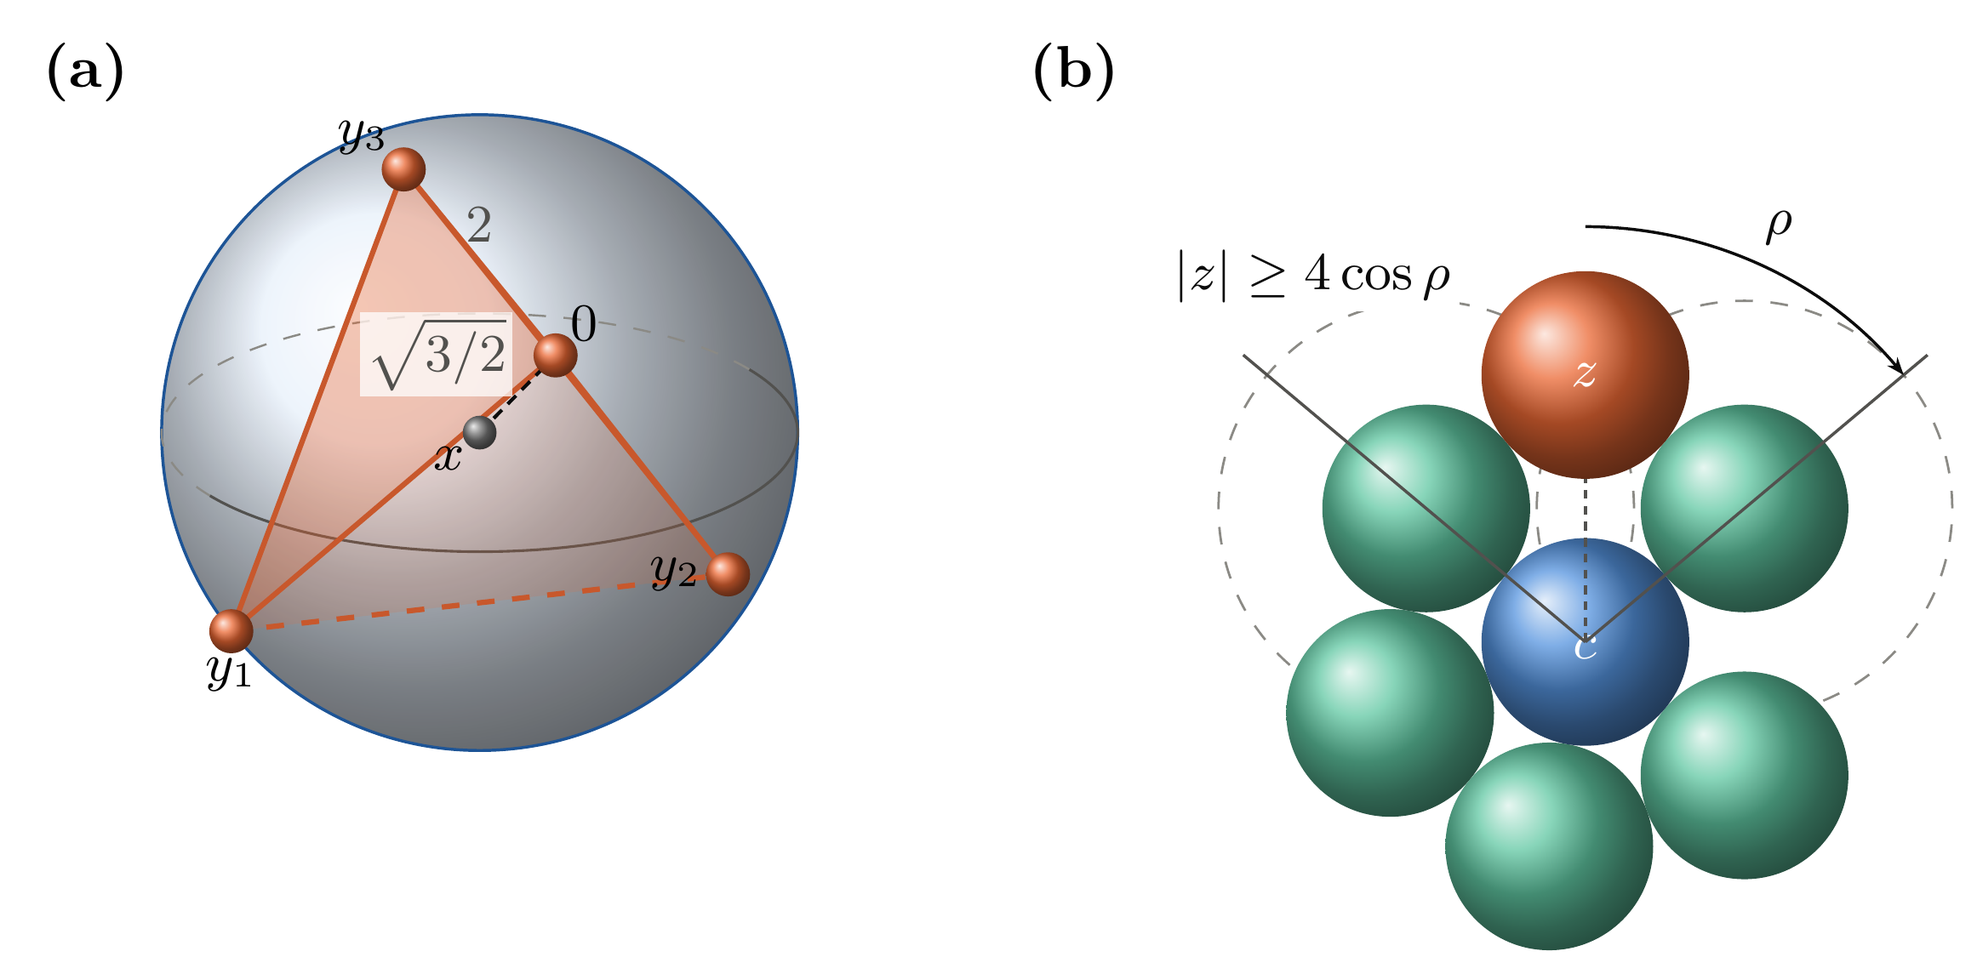
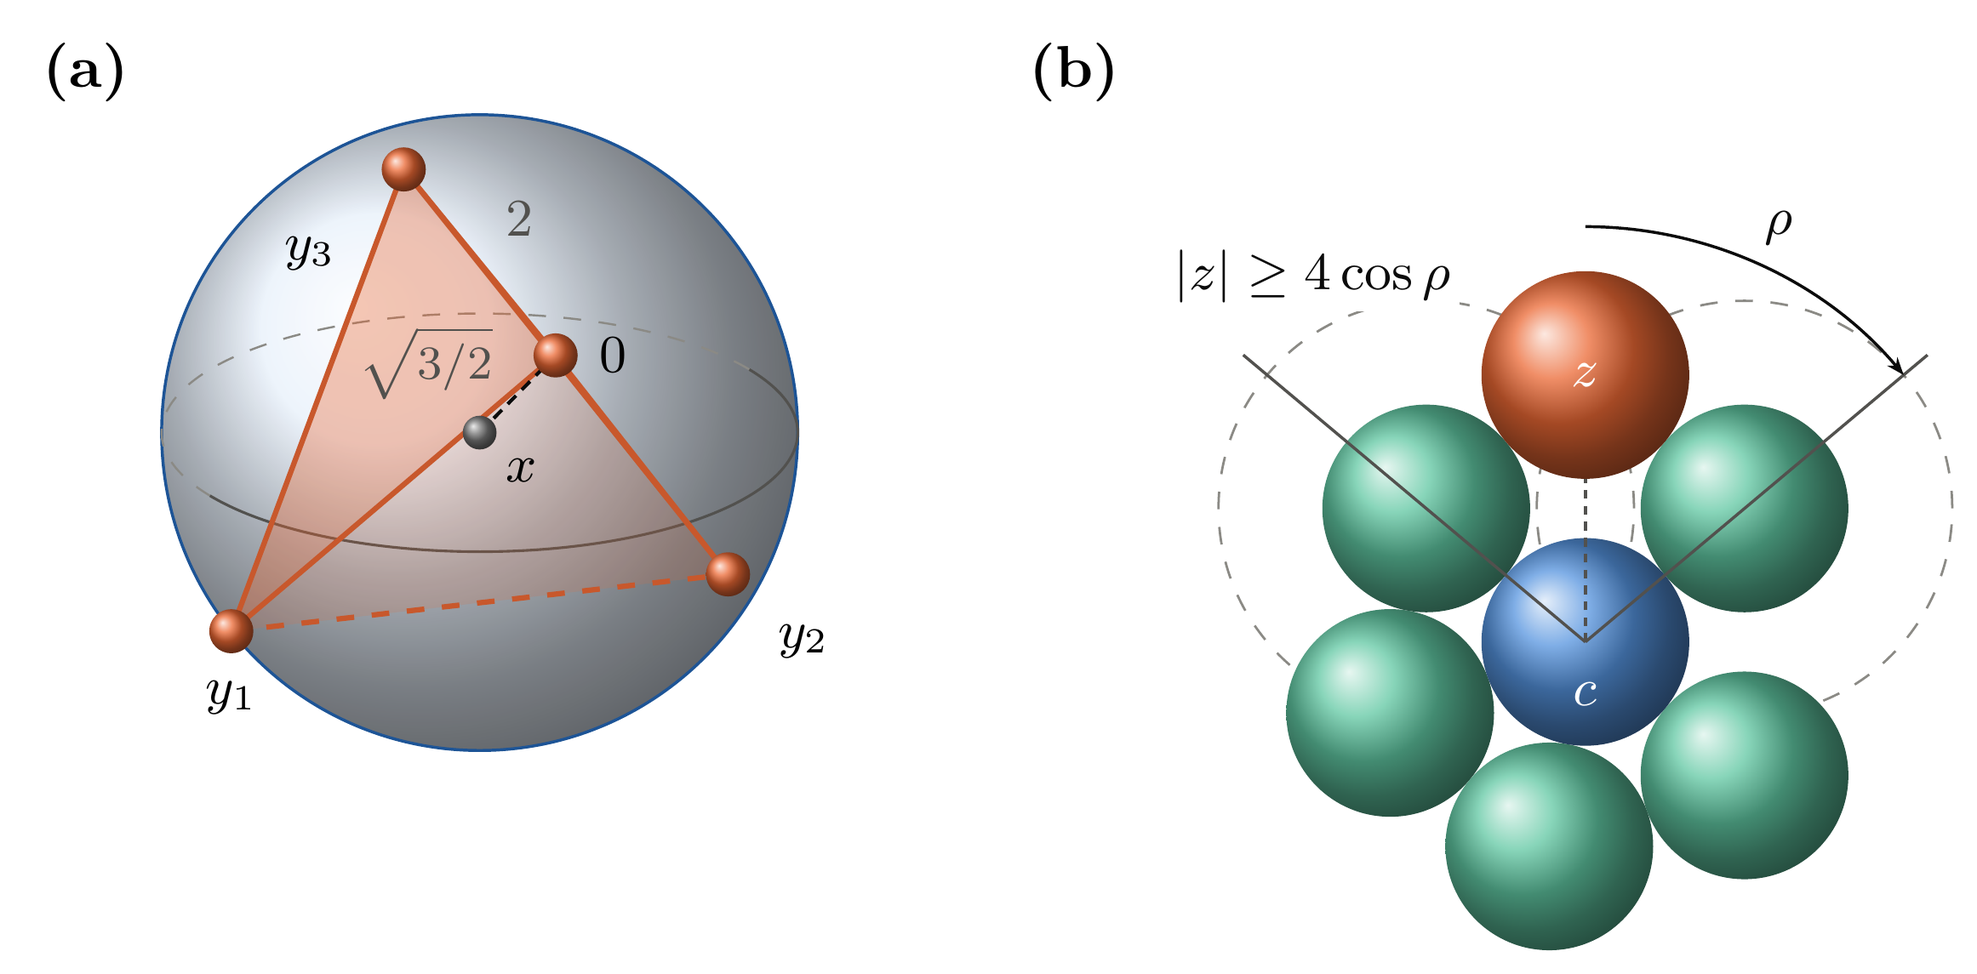
TikZ figures: a collision test for all six, and the four older ones redrawn to pass it
tikz_overlap_check.py compiles a figure with every node aliased (pgfplots
tick labels included), fails it if two nodes overlap, and renders it with
the text hidden to fail any label under which a line, curve, marker or
outline passes (a fill or smooth shading may lie under a label).  Rotated
nodes are measured by all four corners.  The closure, labelled, stop and
epsilon_0 figures had labels touching balls, edges, the zoom frame, a
translucent legend and a grid line; they are moved or backed and the PNGs
re-rendered at 500 dpi.  All six figures pass in both modes.

Claude-Session: https://claude.ai/code/session_01Xmfdkimf2Rbfy8vsWthaq4

diff --git a/paper/figures_new/tikz_overlap_check.py b/paper/figures_new/tikz_overlap_check.py
@@ -9,11 +9,16 @@ and of the whole picture to the log; with \\def\\nolabels{} it draws everything
 except the free text.  The test compiles the figure three ways and fails if
 
   1. two named nodes overlap (boxes and labels alike), or
-  2. under any free label the drawing without labels is not flat: a curve, a
-     line, a marker or the edge of a box passing under the text.  A label may
-     sit on a uniform fill, such as a shaded band, and on nothing else.
+  2. under any free label the drawing without labels has an edge: a curve, a
+     line, a marker or the outline of a shape passing under the text.  A label
+     may sit on a fill or a smooth shading, and on nothing else.
 
-Usage: python3 tikz_overlap_check.py FIGURE.tex [PAD_PT]
+In the automatic mode (\\autocheck in the figure, or --auto here) every node is
+checked: a node that contains another is a frame and is left out; both tests
+look at each node 1.5pt in from its border (inside the default inner sep of
+3.33pt), the second a further 0.6pt in, with only the text of the nodes hidden.
+
+Usage: python3 tikz_overlap_check.py [--auto] FIGURE.tex [PAD_PT]
 Exit status 0 when both tests pass.
 """
 import os
@@ -26,8 +31,15 @@ import numpy as np
 from PIL import Image
 
 DPI = 200
-tex = os.path.abspath(sys.argv[1])
-pad = float(sys.argv[2]) if len(sys.argv) > 2 else 1.0
+EDGE = 12      # grey levels between neighbouring pixels that make an edge
+show = None
+if '--show' in sys.argv:
+    k = sys.argv.index('--show'); show = sys.argv[k + 1]; del sys.argv[k:k + 2]
+args = [a for a in sys.argv[1:] if a != '--auto']
+force = '--auto' in sys.argv
+tex = os.path.abspath(args[0])
+pad = float(args[1]) if len(args) > 1 else 1.0
+pre = '\\def\\forceauto{}' if force else ''
 base = os.path.splitext(os.path.basename(tex))[0]
 src = open(tex).read()
 
@@ -43,11 +55,11 @@ def build(prefix, work):
 
 
 with tempfile.TemporaryDirectory() as work:
-    job = build('\\def\\checkbboxes{}', work)
+    job = build(pre + '\\def\\checkbboxes{}', work)
     log = open(job + '.log', errors='replace').read().replace('\n', '')
     nodes = {}
     num = r' ([-\d.]+)pt'
-    for m in re.findall(r'BBOX (box|label) (\S+)' + num * 8, log):
+    for m in re.findall(r'BBOX (box|label|auto) (\S+)' + num * 8, log):
         kind, name, c = m[0], m[1], [float(v) for v in m[2:]]
         xs, ys = c[0::2], c[1::2]
         # the extent over all four corners: a rotated node has its anchors rotated
@@ -56,6 +68,27 @@ with tempfile.TemporaryDirectory() as work:
     border = float(re.search(r'BORDER ([\d.]+)pt', log).group(1))
     px0, py0, px1, py1 = map(float, pic.groups())
     fails = []
+    auto = any(k == 'auto' for k, *_ in nodes.values())
+    if auto:
+        # leave out points (no extent), empty nodes (twice the default inner sep,
+        # 6.67pt square, where any node with text is larger) and frames (a node
+        # that contains another)
+        pts = {n for n, (k, x1, y1, x2, y2) in nodes.items()
+               if x2 - x1 < 0.5 or y2 - y1 < 0.5 or (x2 - x1 < 7.5 and y2 - y1 < 7.5)}
+        for n in pts:
+            del nodes[n]
+        frames = set()
+        for a, (_, ax1, ay1, ax2, ay2) in nodes.items():
+            for b, (_, bx1, by1, bx2, by2) in nodes.items():
+                if a != b and ax1 <= bx1 + 0.01 and ay1 <= by1 + 0.01 and ax2 >= bx2 - 0.01 and ay2 >= by2 - 0.01:
+                    frames.add(a)
+        for n in frames:
+            del nodes[n]
+        # nodes carry their inner sep (0.33 em unless set); compare them 1.5pt in
+        # from their borders, which still checks a margin of about 1.8pt around
+        # text with the default
+        for n, (k, x1, y1, x2, y2) in list(nodes.items()):
+            nodes[n] = (k, x1 + 1.5, y1 + 1.5, x2 - 1.5, y2 - 1.5)
     names = sorted(nodes)
     for a in range(len(names)):
         for b in range(a + 1, len(names)):
@@ -63,27 +96,52 @@ with tempfile.TemporaryDirectory() as work:
             _, bx1, by1, bx2, by2 = nodes[names[b]]
             if min(ax2, bx2) - max(ax1, bx1) > -pad and min(ay2, by2) - max(ay1, by1) > -pad:
                 fails.append('nodes %s and %s overlap' % (names[a], names[b]))
-    job2 = build('\\def\\nolabels{}', work)
+    job2 = build(pre + '\\def\\nolabels{}', work)
     subprocess.run(['pdftoppm', '-r', str(DPI), '-png', '-singlefile', job2 + '.pdf', job2], check=True)
     img = np.asarray(Image.open(job2 + '.png').convert('L'), dtype=float)
     H, Wd = img.shape
     s = DPI / 72.27
+    bad = []
     for name, (kind, x1, y1, x2, y2) in nodes.items():
-        if kind != 'label':
+        if kind == 'box':
             continue
+        if kind == 'auto':
+            # a further 0.6pt in: rounded corners of radius 2pt reach that far inside
+            x1, y1, x2, y2 = x1 + 0.6, y1 + 0.6, x2 - 0.6, y2 - 0.6
         c1 = int((x1 - px0 + border) * s) + 1; c2 = int((x2 - px0 + border) * s) - 1
         r1 = int((py1 - y2 + border) * s) + 1; r2 = int((py1 - y1 + border) * s) - 1
         patch = img[max(r1, 0):min(r2, H), max(c1, 0):min(c2, Wd)]
         if patch.size == 0:
             fails.append('label %s has an empty pixel box' % name)
             continue
-        # background, or one flat fill (a shaded band): nothing drawn varies under the label
-        if patch.max() - patch.min() > 2:
-            dark = int(np.sum(np.abs(patch - np.median(patch)) > 2))
-            fails.append('label %s lies over %d drawn pixels' % (name, dark))
-    print('%s: %d boxes, %d labels checked' % (base, sum(k == 'box' for k, *_ in nodes.values()),
-                                               sum(k == 'label' for k, *_ in nodes.values())))
+        # background, a fill, or a smooth shading may lie under a label; an edge may
+        # not: a line, a curve, a marker or the outline of a shape changes the grey
+        # level between neighbouring pixels by far more than any shading does
+        jump = np.zeros_like(patch)
+        if patch.shape[0] > 1:
+            jump[1:, :] = np.maximum(jump[1:, :], np.abs(np.diff(patch, axis=0)))
+        if patch.shape[1] > 1:
+            jump[:, 1:] = np.maximum(jump[:, 1:], np.abs(np.diff(patch, axis=1)))
+        edges = int(np.sum(jump > EDGE))
+        if edges:
+            fails.append('label %s lies over %d edge pixels' % (name, edges))
+            bad.append((name, c1, r1, c2, r2))
+    if auto:
+        print('%s: %d nodes checked automatically (%d frames and %d points or empty nodes left out)'
+              % (base, len(nodes), len(frames), len(pts)))
+    else:
+        print('%s: %d boxes, %d labels checked' % (base, sum(k == 'box' for k, *_ in nodes.values()),
+                                                   sum(k == 'label' for k, *_ in nodes.values())))
     for f in fails:
         print('  FAIL: ' + f)
     print('  PASS' if not fails else '  %d failures' % len(fails))
+    if show:
+        # the figure as drawn, with the box of every label that failed in red
+        from PIL import ImageDraw
+        job3 = build(pre, work)
+        subprocess.run(['pdftoppm', '-r', str(DPI), '-png', '-singlefile', job3 + '.pdf', job3], check=True)
+        im = Image.open(job3 + '.png').convert('RGB'); dr = ImageDraw.Draw(im)
+        for name, c1, r1, c2, r2 in bad:
+            dr.rectangle([c1, r1, c2, r2], outline=(255, 0, 0)); dr.text((c1, max(r1 - 10, 0)), name, fill=(255, 0, 0))
+        im.save(show)
     sys.exit(1 if fails else 0)

diff --git a/paper/figures_new/tikzcheck.tex b/paper/figures_new/tikzcheck.tex
@@ -1,20 +1,40 @@
 % tikzcheck.tex -- the hooks of tikz_overlap_check.py, input by the TikZ figures.
-% \figboxes and \figlabels list the named nodes; \checkfigure, at the end of the
-% picture, writes their four corners (so that rotated nodes are measured by their
-% true extent) and those of the picture to the log when
-% \checkbboxes is defined.  With \nolabels defined, nodes in the style lbl are
-% drawn invisibly, so that the test can look at what lies under them.
+% Two ways to name what is checked.
+%  - Explicit: \figboxes and \figlabels list named nodes; with \nolabels defined,
+%    nodes in the style lbl are drawn invisibly.
+%  - Automatic: \autocheck in the preamble gives every node of the picture,
+%    pgfplots tick labels included, an alias chk<n>; with \nolabels defined, the
+%    text of every node is drawn invisibly and its shape is kept.
+% \checkfigure, at the end of the picture, writes the four corners of each
+% checked node (so that rotated nodes are measured by their true extent) and
+% those of the picture to the log when \checkbboxes is defined.
 \tikzset{lbl/.style={}}
 \ifdefined\nolabels\tikzset{lbl/.append style={opacity=0}}\fi
+\newcount\chknodes
+\newcommand\autocheck{%
+  \def\chkauto{}%
+  \tikzset{every node/.append style={/utils/exec={\global\advance\chknodes by 1\relax},
+                                      alias=chk\the\chknodes}}%
+  \ifdefined\nolabels\tikzset{every node/.append style={text opacity=0}}\fi}
+\makeatletter
+% a node counted but never kept (pgfplots typesets some nodes once to measure them)
+% has no shape, and is skipped
+\newcommand\chkifnode[2]{\pgfutil@ifundefined{pgf@sh@ns@#1}{}{#2}}
+\makeatother
+\newcommand\chkout[2]{% kind, node
+  \path let \p1=(#2.south west), \p2=(#2.north east), \p3=(#2.north west), \p4=(#2.south east)
+    in \pgfextra{\typeout{BBOX #1 #2\space\x1\space\y1\space\x2\space\y2\space\x3\space\y3\space\x4\space\y4}};}
 \newcommand\checkfigure{%
   \ifdefined\checkbboxes
     \path let \p1=(current bounding box.south west), \p2=(current bounding box.north east)
       in \pgfextra{\typeout{PICBB \x1\space\y1\space\x2\space\y2}};
     \typeout{BORDER 4.0pt}%
-    \foreach \nm in \figboxes {\path let \p1=(\nm.south west), \p2=(\nm.north east),
-        \p3=(\nm.north west), \p4=(\nm.south east)
-      in \pgfextra{\typeout{BBOX box \nm\space\x1\space\y1\space\x2\space\y2\space\x3\space\y3\space\x4\space\y4}};}
-    \foreach \nm in \figlabels {\path let \p1=(\nm.south west), \p2=(\nm.north east),
-        \p3=(\nm.north west), \p4=(\nm.south east)
-      in \pgfextra{\typeout{BBOX label \nm\space\x1\space\y1\space\x2\space\y2\space\x3\space\y3\space\x4\space\y4}};}
+    \ifdefined\chkauto
+      \edef\chklast{\the\chknodes}%
+      \foreach \nm in {1,...,\chklast} {\chkifnode{chk\nm}{\chkout{auto}{chk\nm}}}%
+    \else
+      \foreach \nm in \figboxes {\chkout{box}{\nm}}%
+      \foreach \nm in \figlabels {\chkout{label}{\nm}}%
+    \fi
   \fi}
+\ifdefined\forceauto\autocheck\fi

diff --git a/paper/figures_new/tikz_labelled.tex b/paper/figures_new/tikz_labelled.tex
@@ -6,6 +6,7 @@
 %       fr = (1 - q)^2 (2 + q)/4 of the section.  Orthographic, q = 0.35.
 %   (b) The three ranges of the largest inner product t of three directions in the
 %       proof, with what settles each; not to scale.
+% Test:   python3 tikz_overlap_check.py tikz_labelled.tex
 % Build:  pdflatex tikz_labelled.tex && pdftoppm -r 500 -png -singlefile tikz_labelled.pdf ../figures/fig_tikz_labelled
 \documentclass[border=4pt]{standalone}
 \usepackage{tikz}
@@ -21,6 +22,8 @@
 \definecolor{cink2}{HTML}{52514E}
 \definecolor{cink3}{HTML}{8B8A85}
 \definecolor{cpanel}{HTML}{F4F3EF}
+\input{tikzcheck}
+\autocheck
 \begin{document}
 \begin{tikzpicture}[font=\small]
 %% ------------------------------------------------------------------ (a)
@@ -51,15 +54,15 @@
   \draw[cink2, line width=0.45pt] (-1,0) arc[start angle=180, end angle=360, x radius=1, y radius={sin(\e)}];
   % centre, radius rho, distance q rho, and the normal of the second hyperplane
   \fill[cink] (0,0) circle (0.022);
-  \draw[cink, line width=0.5pt] (0,0) -- (-0.94,-0.342) node[pos=0.55, below=-1pt] {$\rho$};
+  \draw[cink, line width=0.5pt] (0,0) -- (-0.94,-0.342) node[pos=1, left=3pt] {$\rho$};
   \draw[cink, line width=0.6pt, |-|, >=Bar] (0.02,0) -- (0.02,\yc);
-  \node[right=0pt, cink] at (0.02,\yc/2) {$q\rho$};
+  \draw[cink3, line width=0.35pt] (0.05,\yc/2) -- (1.12,-0.14);
+  \node[anchor=west, inner sep=1.5pt, cink] at (1.12,-0.14) {$q\rho$};
   \draw[-{Stealth[length=4pt]}, cink2, line width=0.6pt] (1.05,\yc+0.02) -- (1.05,\yc+0.62);
   \node[right=1pt, cink2, align=left, font=\footnotesize] at (1.05,\yc+0.5) {towards the\\second centre};
   \node[corange!85!black] at (0,0.78) {$\mathrm{fr}$};
   \node[cink2, font=\footnotesize, align=center] at (0,-1.28) {section of $B(\sqrt{3/2})$ at height $\tau$,\\ a ball of radius $\rho=(\tfrac32-\tau^2)^{1/2}$};
-  \node[caqua!60!black, font=\footnotesize, anchor=east] at (-1.47,\yc-0.2) {hyperplane of the};
-  \node[caqua!60!black, font=\footnotesize, anchor=east] at (-1.47,\yc-0.43) {second centre};
+  \node[caqua!60!black, font=\footnotesize, anchor=north east, align=right] at (-1.47,\yc-0.08) {hyperplane of the\\second centre};
 \end{scope}
 \node[font=\bfseries] at (-3.85,3.25) {(a)};
 \node[font=\footnotesize, cink] at (0,2.05) {$\mathrm{fr}=\tfrac14(1-q)^2(2+q)$};
@@ -95,5 +98,6 @@
   \node[cink2, font=\footnotesize, anchor=west] at (0,-1.05) {not to scale};
 \end{scope}
 \node[font=\bfseries] at (4.0,3.25) {(b)};
+\checkfigure
 \end{tikzpicture}
 \end{document}

diff --git a/paper/figures_new/tikz_closure.tex b/paper/figures_new/tikz_closure.tex
@@ -9,6 +9,7 @@
 %       angular radius of the hole (here rho = 50 degrees, so |z| >= 2.571).
 %       The dashed circles of radius 2 about the contacts are the regions no
 %       other centre may enter.  To scale.
+% Test:   python3 tikz_overlap_check.py tikz_closure.tex
 % Build:  pdflatex tikz_closure.tex && pdftoppm -r 500 -png -singlefile tikz_closure.pdf ../figures/fig_tikz_closure
 \documentclass[border=4pt]{standalone}
 \usepackage{tikz,tikz-3dplot}
@@ -22,6 +23,8 @@
 \definecolor{cink2}{HTML}{52514E}
 \definecolor{cink3}{HTML}{8B8A85}
 \definecolor{cpanel}{HTML}{F4F3EF}
+\input{tikzcheck}
+\autocheck
 \begin{document}
 \begin{tikzpicture}[font=\small]
 %% ------------------------------------------------------------------ (a)
@@ -56,14 +59,13 @@
       \shade[ball color=corange] (\p) circle (0.085);
     \shade[ball color=cink!55] (X) circle (0.065);
   \end{scope}
-  \node[above right=-1pt] at (P0) {$0$};
-  \node[below=1pt] at (P1) {$y_1$};
-  \node[left=1pt] at (P2) {$y_2$};
-  \node[above left=-1pt] at (P3) {$y_3$};
-  \node[below left=-1pt] at (X) {$x$};
-  \path (P0) -- (P3) node[midway, above=0pt, cink2] {$2$};
-  \path (X) -- (P0) node[pos=0.45, above left=0pt, fill=white, fill opacity=0.75,
-    text opacity=1, inner sep=1pt, text=cink2] {$\sqrt{3/2}$};
+  \node[right=4pt] at (P0) {$0$};
+  \node[below=5pt] at (P1) {$y_1$};
+  \node[below right=5pt] at (P2) {$y_2$};
+  \node[below left=8pt] at (P3) {$y_3$};
+  \node[below right=1pt] at (X) {$x$};
+  \path (P0) -- (P3) node[midway, above right=1pt, cink2] {$2$};
+  \path (X) -- (P0) node[pos=0.3, above left=1pt, inner sep=0.5pt, font=\footnotesize, text=cink2] {$\sqrt{3/2}$};
 \end{scope}
 \node[font=\bfseries] at (-2.35,2.15) {(a)};
 %% ------------------------------------------------------------------ (b)
@@ -78,7 +80,7 @@
   }
   % the central ball
   \shade[ball color=cblue!80] (0,0) circle (1);
-  \node[white] at (0,-0.05) {$c$};
+  \node[white] at (0,-0.5) {$c$};
   % the hole: rays at 40 and 140 degrees, and its angular radius
   \draw[cink2, line width=0.5pt] (0,0) -- (40:4.3);
   \draw[cink2, line width=0.5pt] (0,0) -- (140:4.3);
@@ -92,5 +94,6 @@
     {$|z|\ge4\cos\rho$};
 \end{scope}
 \node[font=\bfseries] at (3.55,2.15) {(b)};
+\checkfigure
 \end{tikzpicture}
 \end{document}

diff --git a/paper/figures_new/tikz_eps0.tex b/paper/figures_new/tikz_eps0.tex
@@ -7,6 +7,7 @@
 %       E(24, kappa) = 2.35e-12 that the sign-changing sum-of-squares terms can reach; the bound
 %       clears the level at |u| = delta = 3e-4 (2.94e-12 there), so every inner product lies within
 %       delta of a zero.  The other double zero, -1/2, gives the same picture.
+% Test:   python3 tikz_overlap_check.py tikz_eps0.tex
 % Build:  pdflatex tikz_eps0.tex && pdftoppm -r 500 -png -singlefile tikz_eps0.pdf ../figures/fig_tikz_eps0
 \documentclass[border=4pt]{standalone}
 \usepackage{tikz}
@@ -23,6 +24,8 @@
 \definecolor{cink}{HTML}{0B0B0B}
 \definecolor{cink2}{HTML}{52514E}
 \definecolor{cink3}{HTML}{8B8A85}
+\input{tikzcheck}
+\autocheck
 \begin{document}
 \begin{tikzpicture}[font=\small,
   state/.style={draw=cblue!70!black, fill=cblue!7, rounded corners=2pt, line width=0.6pt,
@@ -50,7 +53,7 @@
   xlabel={distance $|u|$ from the double zero $u=0$}, ylabel={lower bound of $\sigma_2$},
   label style={font=\small}, tick label style={font=\footnotesize},
   axis line style={cink2}, tick style={cink2}, grid=major, grid style={cink3!25},
-  legend cell align=left, legend style={font=\footnotesize, at={(0.03,0.97)}, anchor=north west, draw=cink3, fill=white, fill opacity=0.92, text opacity=1}]
+  legend cell align=left, legend style={font=\footnotesize, at={(0.03,0.97)}, anchor=north west, draw=cink3, fill=white}]
 \addplot[domain=1e-6:1e-1, samples=160, line width=1.0pt, cblue]
   {2.62e-4*(1+x)*(0.5+x)^2*x^2*(0.5-x)};
 \addlegendentry{$2.62\cdot10^{-4}\,f(u)$, $u>0$}
@@ -61,9 +64,10 @@
 \addlegendentry{$E(24,\kappa)=2.35\cdot10^{-12}$}
 \draw[cink, line width=0.6pt, dash pattern=on 2pt off 1.5pt] (axis cs:3e-4,1e-18) -- (axis cs:3e-4,1e-5);
 \fill[caqua!70!black] (axis cs:3e-4,2.94e-12) circle (1.8pt);
-\node[font=\footnotesize, anchor=north west, align=left, inner sep=1.5pt]
+\node[font=\footnotesize, anchor=north west, align=left, inner sep=2pt, fill=white] (dnote)
   at (axis cs:5e-4,2e-14) {at $|u|=\delta$:\\ $2.94\cdot10^{-12}>E$};
-\draw[caqua!70!black, line width=0.35pt] (axis cs:6e-4,2.2e-14) -- (axis cs:3.2e-4,2.3e-12);
+\draw[caqua!70!black, line width=0.35pt] (dnote.north west) -- (axis cs:3.2e-4,2.3e-12);
 \end{axis}
+\checkfigure
 \end{tikzpicture}
 \end{document}

diff --git a/paper/figures_new/tikz_stop.tex b/paper/figures_new/tikz_stop.tex
@@ -10,6 +10,7 @@
 %   (b) One corner, magnified: the vertex v = sqrt2 e1, the two sides through it, the
 %       arc of radius sqrt(3/2), the side x1 = sqrt2 of the hull, which touches Q only
 %       at v, and the depth sqrt2 - sqrt(3/2) = 0.189 of the corner.  To scale.
+% Test:   python3 tikz_overlap_check.py tikz_stop.tex
 % Build:  pdflatex tikz_stop.tex && pdftoppm -r 500 -png -singlefile tikz_stop.pdf ../figures/fig_tikz_stop
 \documentclass[border=4pt]{standalone}
 \usepackage{tikz}
@@ -24,6 +25,8 @@
 \definecolor{cink}{HTML}{0B0B0B}
 \definecolor{cink2}{HTML}{52514E}
 \definecolor{cink3}{HTML}{8B8A85}
+\input{tikzcheck}
+\autocheck
 \begin{document}
 \begin{tikzpicture}[font=\small]
 \pgfmathsetmacro{\sq}{sqrt(2)}
@@ -97,8 +100,8 @@
   \draw[{Bar[width=3pt]}-{Bar[width=3pt]}, cink, line width=0.5pt] (\R,-0.05) -- (\sq,-0.05);
   \node[below=1pt, cink, font=\footnotesize, fill=white, inner sep=1pt] at ({(\R+\sq)/2},-0.058) {$0.189$};
   \node[anchor=south west, font=\footnotesize, inner sep=1.5pt] at (\sq,0.004) {$v$};
-  \node[cblue!80!black, font=\footnotesize, anchor=west] at (1.43,0.31) {$|x|=\sqrt{3/2}$};
-  \draw[cblue!80!black, line width=0.3pt] (1.428,0.31) -- ({sqrt(1.5-0.31*0.31)},0.31);
+  \node[cblue!80!black, font=\footnotesize, anchor=west] at (1.645,0.31) {$|x|=\sqrt{3/2}$};
+  \draw[cblue!80!black, line width=0.3pt] (1.643,0.31) -- ({sqrt(1.5-0.31*0.31)},0.31);
   \node[cink2, font=\footnotesize, anchor=west] at (1.645,-0.3) {hull $x_1=\sqrt2$};
   \draw[cink2, line width=0.3pt] (1.643,-0.3) -- (1.416,-0.3);
   \node[cblue!80!black, font=\footnotesize, anchor=west] at (1.645,0.17) {$x_1+x_2=\sqrt2$};
@@ -109,5 +112,6 @@
 \node[font=\bfseries] at (4.9,2.45) {(b)};
 \node[font=\footnotesize, cink2, align=center, anchor=north] at (7.3,-2.35)
   {in $\mathbb{R}^4$: $24$ corners, $8-7.906940=0.093060$ in all};
+\checkfigure
 \end{tikzpicture}
 \end{document}

diff --git a/RELEASE_NOTES_v1.8.0.md b/RELEASE_NOTES_v1.8.0.md
@@ -116,8 +116,11 @@ Everything proved in v1.7.0 still stands.  New or sharper:
 - New: level2/ (above) and multi_cap/count_survey.py, with logs in
   level2/runs and multi_cap/runs/count_survey*.log.
 - New: paper/figures_new/tikz_overlap_check.py, the collision test of the
-  TikZ figures: no two named nodes overlap, and under each free label the
-  drawing without labels is blank or one flat fill.
+  TikZ figures, run on all six of them in two modes (log:
+  tikz_overlap_check.log).  No two nodes overlap, pgfplots tick labels
+  included, and no line, curve, marker or outline passes under any text;
+  a label may sit on a fill or a smooth shading.  Figures 4, 6, 8 and 27
+  had labels touching lines or balls; they are redrawn.
 - New: independent_verification/rebuilt_from_text/d4_independent_check.py,
   a recomputation of the paper's numerical claims from the statements
   alone.

diff --git a/README.md b/README.md
@@ -101,7 +101,11 @@ by Anthropic.
                         or more found.  Logs: runs/count_survey.log,
                         runs/count_survey_pack.log.
   paper/figures_new/tikz_overlap_check.py
-                      The collision test of the TikZ figures.
+                      The collision test of the TikZ figures: no two nodes
+                        overlap, tick labels included, and nothing drawn
+                        passes under any text.  All six TikZ figures pass it
+                        (tikz_overlap_check.log); Figures 4, 6, 8 and 27 are
+                        redrawn to do so.
   multi_cap/certify_cardinality.py, multi_cap/cardinality_sdp.py,
   multi_cap/cardinality_certificates/
                       Theorem 7.79: the proof, the search, and three
